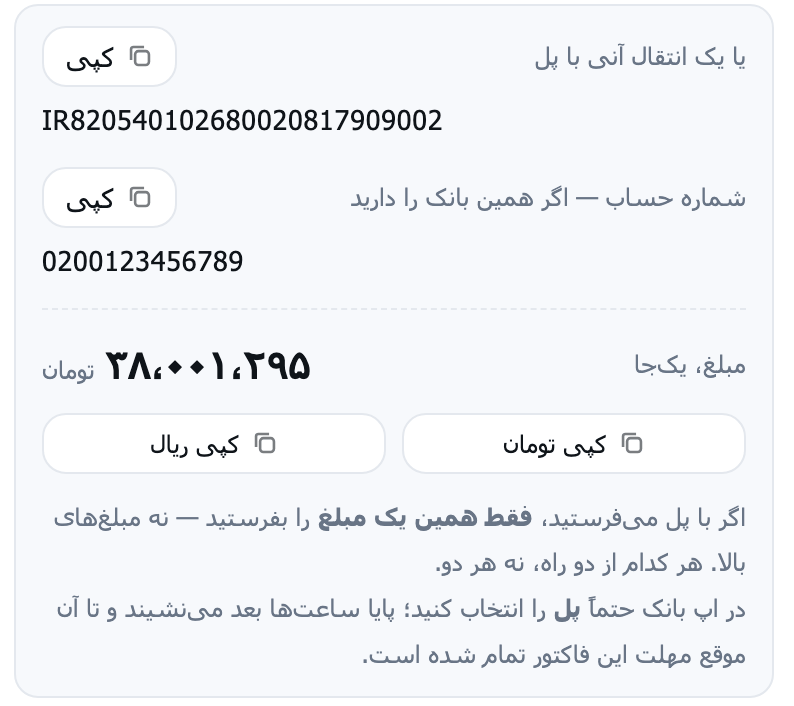
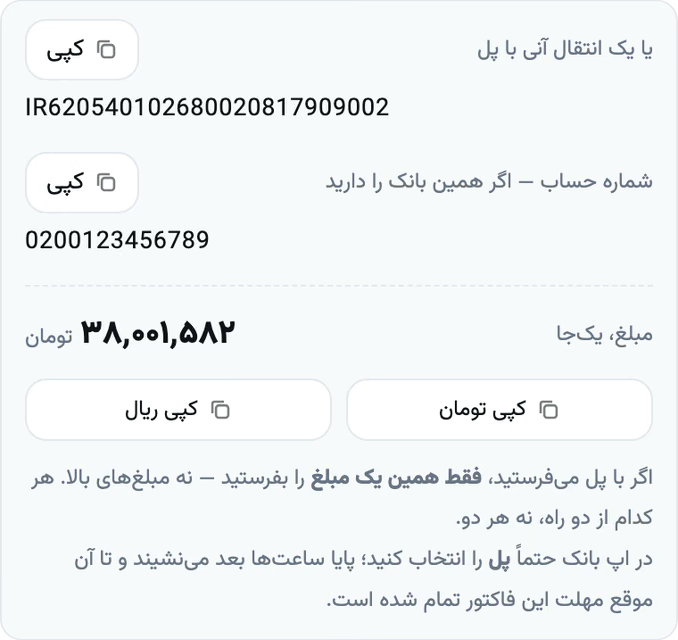
صفحه اول خلوت تر: چهار badge، تصویر «چطور کار میکند»، عکس تازه پل، «از کجا شروع کنم» در شش خانه، عنوان های راست چین

diff --git a/README.md b/README.md
@@ -11,12 +11,7 @@
 [![website](https://img.shields.io/badge/website-abangateway.ir-1F6FEB?style=for-the-badge)](https://abangateway.ir)
 [![status](https://img.shields.io/badge/status-live-0f7a4d?style=for-the-badge)](https://abangateway.ir/status)
 [![API](https://img.shields.io/badge/API-v1-27E0FF?style=for-the-badge)](api/README.md)
-[![Google Play](https://img.shields.io/badge/Google_Play-install-3DDC84?style=for-the-badge&logo=googleplay&logoColor=white)](https://play.google.com/store/apps/details?id=ir.abangateway.forwarder)
-[![iPhone](https://img.shields.io/badge/iPhone-Shortcuts-111111?style=for-the-badge&logo=apple&logoColor=white)](guides/iphone-shortcut.md)
-[![WooCommerce](https://img.shields.io/badge/WooCommerce-plugin-7F54B3?style=for-the-badge&logo=woocommerce&logoColor=white)](integrations/woocommerce.md)
-[![WHMCS](https://img.shields.io/badge/WHMCS-module-1E5AA8?style=for-the-badge)](guides/whmcs.md)
 [![Telegram](https://img.shields.io/badge/Telegram-@Abangw__bot-229ED9?style=for-the-badge&logo=telegram&logoColor=white)](https://t.me/Abangw_bot)
-[![Channel](https://img.shields.io/badge/Channel-@abangateway-229ED9?style=for-the-badge&logo=telegram&logoColor=white)](https://t.me/abangateway)
 
 </div>
 
@@ -49,32 +44,19 @@ curl -X POST https://api.abangateway.ir/api/v1/invoices \
 
 هر فاکتور یک مبلغ **منحصربهفرد** میگیرد — چند ریال بیشتر از مبلغ سفارش. آن اختلاف تصادفی تنها چیزی است که واریز این خریدار را از واریز همزمان یک نفر دیگر جدا میکند.
 
-<!-- Top-down, not right-to-left. RTL matched the language and was the first
-     choice, but seven nodes on one horizontal line render as an unreadable
-     strip of thumbnails on GitHub. A vertical flow gives each step the full
-     column width, which is what actually makes it legible. -->
-```mermaid
-flowchart TD
-    A["🛒 خریدار سفارش میدهد"]
-    B["🧾 فاکتور با یک مبلغ منحصربهفرد ساخته میشود"]
-    C["💳 خریدار کارت به کارت میکند — مستقیم به کارت شما"]
-    D["🏦 بانک به گوشی شما پیامک میزند"]
-    E["📱 اپ فورواردر پیامک را به سرور میرساند"]
-    F["🔎 سرور مبلغ را میخواند و به فاکتور میچسباند"]
-    G["✅ وبهوک میآید — سفارش تحویل میشود"]
-
-    A --> B --> C --> D --> E --> F --> G
-
-    style C fill:#0e2547,stroke:#27E0FF,stroke-width:2px,color:#e9f1fb
-    style F fill:#0e2547,stroke:#27E0FF,stroke-width:2px,color:#e9f1fb
-    style G fill:#0b2b1e,stroke:#33e39b,stroke-width:2px,color:#e9f1fb
-```
+<!-- A drawn image, not mermaid. GitHub draws mermaid in its own font, so the
+     Persian came out in a fallback face, and the seven boxes made a column
+     most of a screen tall. The source is infra/docs-how-it-works.html in the
+     main repo; it rebuilds this file. -->
+![پنج قدم از راست به چپ: فاکتور با یک مبلغ یکتا ساخته میشود، خریدار مستقیم به کارت شما کارت به کارت میکند، بانک به گوشی شما پیامک میزند، اپ اندروید یا شورتکات آیفون پیامک را میفرستد، مبلغ با فاکتور تطبیق میخورد و وبهوک میرسد](assets/how-it-works.png)
 
 پول در هیچ مرحلهای دست ما نیست. کارمزد از یک کیف پول جدا کم میشود که خودتان شارژ میکنید.
 
 ---
 
-## 🆕 تازه ها
+<!-- ✨, not 🆕: the squared NEW counts as a Latin letter, so GitHub's dir="auto"
+     turned this one heading left-to-right. -->
+## ✨ تازه ها
 
 - 📱 **آیفون روی iOS 27.** دو نسخه تازه شورتکات: با اینترنت، و بدون اینترنت که پیامک بانک را با پیامک میفرستد. «🏦 بانک های من» هم فقط پیامک بانک هایی را نگه میدارد که فروشنده انتخاب کرده. [اتصال آیفون ←](guides/iphone-shortcut.md)
 - 🤝 **نمایندگی درگاه.** برای فروشنده ای که نماینده زیرمجموعه دارد: پول همه فروش ها به کارت خود فروشنده میرسد و هر پرداخت معلوم است از کدام نماینده آمده. [نمایندگی درگاه ←](guides/agency.md)
@@ -89,7 +71,7 @@ flowchart TD
 
 <div align="center">
 
-![جعبهی انتقال با پل روی صفحهی پرداخت: شبا، شماره حساب و مبلغ یکجا](assets/pay-pol.png)
+<img src="assets/pay-pol.png" width="420" alt="جعبه انتقال با پل روی صفحه پرداخت: شبا، شماره حساب و مبلغ یکجا">
 
 </div>
 
@@ -127,47 +109,42 @@ flowchart TD
 
 <table dir="rtl">
 <tr>
-<td width="25%" valign="top">
+<td width="33%" valign="top">
 
-### 🛍 فروشندهام
-سایت ندارم
-
-[لینک پرداخت](integrations/payment-links.md)
+**🛍 سایت ندارم**<br>
+[لینک پرداخت](integrations/payment-links.md)، برای اینستاگرام و تلگرام
 
 </td>
-<td width="25%" valign="top">
+<td width="33%" valign="top">
 
-### 🟣 ووکامرس دارم
-
-[افزونهی رسمی](integrations/woocommerce.md)
-
-### 🖥 WHMCS دارم
-
-[ماژول رسمی](guides/whmcs.md)
-
-### 🤖 ربات فروشگاهی دارم
-
-[DDbot](integrations/ddbot.md) · [میرزا آپدیتشده](integrations/mirza-pro.md) · [میرزا اشتراکی](integrations/mirza.md) · [فاکسیما](integrations/faoxima.md) · [ویزویز](integrations/wizwiz.md)
+**🌐 سایت دارم**<br>
+[ووکامرس](integrations/woocommerce.md) · [WHMCS](guides/whmcs.md) · [لاراول](integrations/laravel.md)
 
 </td>
-<td width="25%" valign="top">
+<td width="33%" valign="top">
 
-### 👨💻 برنامهنویسم
-
-[مرجع API](api/README.md)
-
-[نمونه PHP](examples/php.md) · [لاراول](integrations/laravel.md)
+**🤖 ربات فروشگاهی دارم**<br>
+[DDbot](integrations/ddbot.md) · [میرزا آپدیت شده](integrations/mirza-pro.md) · [میرزا اشتراکی](integrations/mirza.md) · [فاکسیما](integrations/faoxima.md) · [ویزویز](integrations/wizwiz.md)
 
 </td>
-<td width="25%" valign="top">
+</tr>
+<tr>
+<td valign="top">
 
-### 🌱 تازهام
+**👨💻 برنامه نویسم**<br>
+[مرجع API](api/README.md) · [نمونه PHP](examples/php.md)
 
-[از صفر تا اولین پرداخت](guides/start.md)
+</td>
+<td valign="top">
 
-### 📱 گوشی فروشنده
-
+**📱 گوشی فروشنده**<br>
 [اپ اندروید](integrations/forwarder-app.md) · [آیفون](guides/iphone-shortcut.md)
+
+</td>
+<td valign="top">
+
+**🌱 تازه ام**<br>
+[از صفر تا اولین پرداخت](guides/start.md)
 
 </td>
 </tr>
@@ -177,7 +154,7 @@ flowchart TD
 
 ## 📚 فهرست کامل
 
-### 🔌 API
+### 🔌 مرجع API
 
 <div dir="rtl">
 
